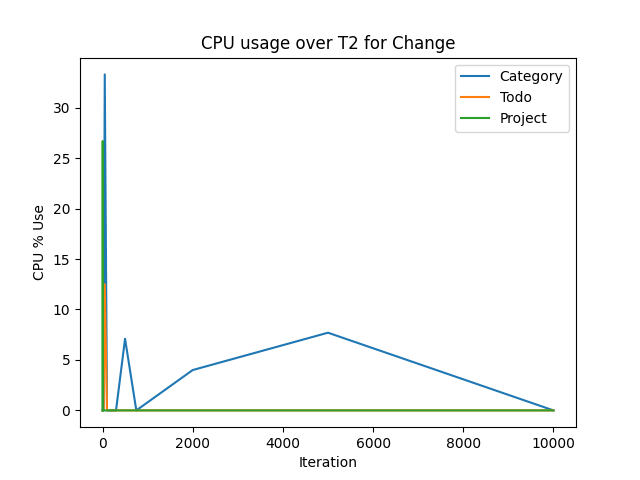
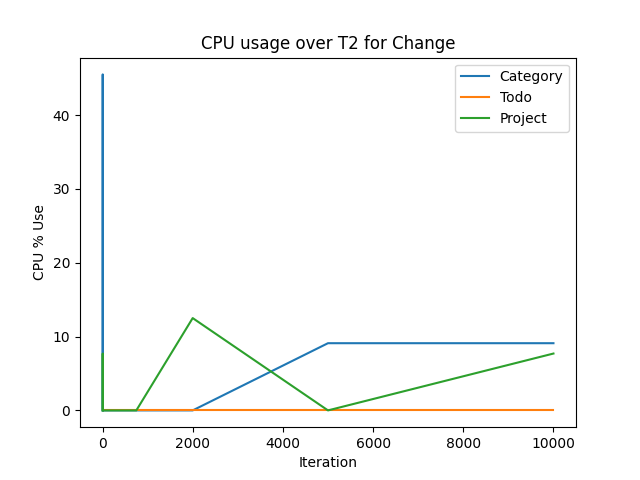
using time_ns instead

diff --git a/C/tests/todo/test_add_todo.py b/C/tests/todo/test_add_todo.py
@@ -2,7 +2,7 @@ import csv
 import json
 import os
 
-from time import time, sleep
+from time import time_ns, sleep
 
 from ..headers import send_json_recv_json_headers, recv_json_headers
 from ..set_up import *
@@ -42,15 +42,14 @@ def test_add_todo():
 
     for i, p in zip(ITERATIONS, PORTS[PORT_IDX]):
         print(i)
-        t1_start = time()
+        t1_start = time_ns()
 
         proc = start_server(p)
         for j in range(i):  # add x amount of todos
-            print(j)
             if i - 1 == j:
-                t2_start = time()
+                t2_start = time_ns()
                 create_to_do(str(i), p)
-                t2_end = time()
+                t2_end = time_ns()
                 assert_todos(str(i), p)
                 t2_writer.writerow([j + 1, t2_start, t2_end, t2_end - t2_start])
             else:
@@ -59,7 +58,7 @@ def test_add_todo():
             sleep(PAUSE)
         shutdown_server(proc, p)
 
-        t1_end = time()
+        t1_end = time_ns()
         t1_writer.writerow([i, t1_start, t1_end, t1_end - t1_start])
         # sleep(30)
 

diff --git a/C/tests/context/test_add_category.py b/C/tests/context/test_add_category.py
@@ -1,7 +1,7 @@
 import csv
 import json
 import os
-from time import time, sleep
+from time import time_ns, sleep
 
 import requests
 
@@ -43,14 +43,14 @@ def test_add_category():
 
     for i, p in zip(ITERATIONS, PORTS[PORT_IDX]):
         print(i)
-        t1_start = time()
+        t1_start = time_ns()
 
         proc = start_server(p)
         for j in range(i):  # add x amount of categories
             if j == i - 1:
-                t2_start = time()
+                t2_start = time_ns()
                 create_category(str(i), p)
-                t2_end = time()
+                t2_end = time_ns()
                 assert_categories(str(i), p)
                 t2_writer.writerow([j + 1, t2_start, t2_end, t2_end - t2_start])
             else:
@@ -59,7 +59,7 @@ def test_add_category():
             sleep(PAUSE)
         shutdown_server(proc, p)
 
-        t1_end = time()
+        t1_end = time_ns()
         t1_writer.writerow([i, t1_start, t1_end, t1_end - t1_start])
         # sleep(30)
 

diff --git a/C/tests/project/test_add_project.py b/C/tests/project/test_add_project.py
@@ -1,7 +1,7 @@
 import csv
 import json
 import os
-from time import time, sleep
+from time import time_ns, sleep
 
 import requests
 
@@ -44,14 +44,14 @@ def test_add_project():
 
     for i, p in zip(ITERATIONS, PORTS[PORT_IDX]):
         print(i)
-        t1_start = time()
+        t1_start = time_ns()
 
         proc = start_server(p)
         for j in range(i):  # add x amount of projects
             if i - 1 == j:
-                t2_start = time()
+                t2_start = time_ns()
                 create_project(str(i), p)
-                t2_end = time()
+                t2_end = time_ns()
                 assert_projects(str(i), p)
                 t2_writer.writerow([j + 1, t2_start, t2_end, t2_end - t2_start])
             else:
@@ -60,7 +60,7 @@ def test_add_project():
             sleep(PAUSE)
         shutdown_server(proc, p)
 
-        t1_end = time()
+        t1_end = time_ns()
         t1_writer.writerow([i, t1_start, t1_end, t1_end - t1_start])
 
     t1_file.close()

diff --git a/C/tests/context/test_delete_category.py b/C/tests/context/test_delete_category.py
@@ -1,7 +1,7 @@
 import csv
 import json
 import os
-from time import time, sleep
+from time import time_ns, sleep
 
 import requests
 
@@ -38,20 +38,20 @@ def test_delete_category():
 
     for i, p in zip(ITERATIONS, PORTS[PORT_IDX]):
         print(i)
-        t1_start = time()
+        t1_start = time_ns()
         proc = start_server(p)
         for j in range(1, i + 1):
             last = create_category(str(j), p)
             sleep(PAUSE)
         # only delete the last one
-        t2_start = time()
+        t2_start = time_ns()
         delete_category(last, p)
-        t2_end = time()
+        t2_end = time_ns()
 
         assert_deleted_category(last, p)
         shutdown_server(proc, p)
 
-        t1_end = time()
+        t1_end = time_ns()
         t1_writer.writerow([i, t1_start, t1_end, t1_end - t1_start])
         t2_writer.writerow([i, t2_start, t2_end, t2_end - t2_start])
         # sleep(30)

diff --git a/C/tests/project/test_change_project.py b/C/tests/project/test_change_project.py
@@ -1,7 +1,7 @@
 import csv
 import json
 import os
-from time import time, sleep
+from time import time_ns, sleep
 
 import requests
 
@@ -42,21 +42,21 @@ def test_change_project():
 
     for i, p in zip(ITERATIONS, PORTS[PORT_IDX]):
         print(i)
-        t1_start = time()
+        t1_start = time_ns()
 
         proc = start_server(p)
         for j in range(i + 1):  # add x amount of projects
             last = create_project(str(i), p)
             sleep(PAUSE)
 
-        t2_start = time()
+        t2_start = time_ns()
         change_project(last, p)
-        t2_end = time()
+        t2_end = time_ns()
 
         assert_changed_project(last, p)
         shutdown_server(proc, p)
 
-        t1_end = time()
+        t1_end = time_ns()
         t1_writer.writerow([i, t1_start, t1_end, t1_end - t1_start])
         t2_writer.writerow([i, t2_start, t2_end, t2_end - t2_start])
         # sleep(30)

diff --git a/C/tests/project/test_delete_project.py b/C/tests/project/test_delete_project.py
@@ -1,7 +1,7 @@
 import csv
 import json
 import os
-from time import time, sleep
+from time import time_ns, sleep
 
 import requests
 
@@ -40,20 +40,20 @@ def test_delete_project():
 
     for i, p in zip(ITERATIONS, PORTS[PORT_IDX]):
         print(i)
-        t1_start = time()
+        t1_start = time_ns()
         proc = start_server(p)
         for j in range(1, i + 1):
             last = create_project(str(j), p)
             sleep(PAUSE)
         # only delete the last one
-        t2_start = time()
+        t2_start = time_ns()
         delete_project(last, p)
-        t2_end = time()
+        t2_end = time_ns()
 
         assert_deleted_project(last, p)
         shutdown_server(proc, p)
 
-        t1_end = time()
+        t1_end = time_ns()
         t1_writer.writerow([i, t1_start, t1_end, t1_end - t1_start])
         t2_writer.writerow([i, t2_start, t2_end, t2_end - t2_start])
 

diff --git a/C/tests/context/test_change_category.py b/C/tests/context/test_change_category.py
@@ -1,7 +1,7 @@
 import csv
 import json
 import os
-from time import time, sleep
+from time import time_ns, sleep
 
 import requests
 
@@ -41,21 +41,21 @@ def test_change_category():
 
     for i, p in zip(ITERATIONS, PORTS[PORT_IDX]):
         print(i)
-        t1_start = time()
+        t1_start =time_ns()
 
         proc = start_server(p)
         for j in range(i + 1):  # add x amount of categories
             last = create_category(str(i), p)
             sleep(PAUSE)
 
-        t2_start = time()
+        t2_start = time_ns()
         change_category(last, p)
-        t2_end = time()
+        t2_end = time_ns()
 
         assert_changed_category(last, p)
         shutdown_server(proc, p)
 
-        t1_end = time()
+        t1_end = time_ns()
         t1_writer.writerow([i, t1_start, t1_end, t1_end - t1_start])
         t2_writer.writerow([i, t2_start, t2_end, t2_end - t2_start])
 

diff --git a/C/tests/todo/test_change_todo.py b/C/tests/todo/test_change_todo.py
@@ -1,7 +1,7 @@
 import csv
 import json
 import os
-from time import time, sleep
+from time import time_ns, sleep
 
 import requests
 
@@ -40,21 +40,21 @@ def test_change_todo():
 
     for i, p in zip(ITERATIONS, PORTS[PORT_IDX]):
         print(i)
-        t1_start = time()
+        t1_start = time_ns()
 
         proc = start_server(p)
         for j in range(i + 1):  # add x amount of todos
             last = create_to_do(str(i), p)
             sleep(PAUSE)
 
-        t2_start = time()
+        t2_start = time_ns()
         change_todo(last, p)
-        t2_end = time()
+        t2_end = time_ns()
 
         assert_changed_todo(last, p)
         shutdown_server(proc, p)
 
-        t1_end = time()
+        t1_end = time_ns()
         t1_writer.writerow([i, t1_start, t1_end, t1_end - t1_start])
         t2_writer.writerow([i, t2_start, t2_end, t2_end - t2_start])
         # sleep(30)

diff --git a/C/tests/todo/test_delete_todo.py b/C/tests/todo/test_delete_todo.py
@@ -1,6 +1,6 @@
 import csv
 import os
-from time import time, sleep
+from time import time_ns, sleep
 
 import requests
 
@@ -38,20 +38,20 @@ def test_delete_todo():
 
     for i, p in zip(ITERATIONS, PORTS[PORT_IDX]):
         print(i)
-        t1_start = time()
+        t1_start = time_ns()
         proc = start_server(p)
         for j in range(1, i + 1):
             last = create_to_do(str(j), p)
             sleep(PAUSE)
         # only delete the last one
-        t2_start = time()
+        t2_start = time_ns()
         delete_todo(last, p)
-        t2_end = time()
+        t2_end = time_ns()
 
         assert_deleted_todo(last, p)
         shutdown_server(proc, p)
 
-        t1_end = time()
+        t1_end =time_ns()
         t1_writer.writerow([i, t1_start, t1_end, t1_end - t1_start])
         t2_writer.writerow([i, t2_start, t2_end, t2_end - t2_start])
         # sleep(30)

diff --git a/C/run.py b/C/run.py
@@ -3,7 +3,7 @@ import os
 from threading import Thread, currentThread
 
 import psutil
-from time import sleep, time
+from time import sleep, time_ns
 
 from tests.context.test_add_category import test_add_category
 from tests.context.test_change_category import test_change_category
@@ -22,10 +22,10 @@ def logger():
     log_writer.writerow(["time", "cpu_usage(%)", "used_memory", "free_memory"])
 
     while getattr(currentThread(), "run", True):
-        now = time()
+        now = time_ns()
         cpu_usage = psutil.cpu_percent()
         log_writer.writerow([now, cpu_usage,  psutil.virtual_memory().used, psutil.virtual_memory().free])
-        sleep(0.02)
+        sleep(0.0005)
     log.close()
 
 

diff --git a/C/tests/set_up.py b/C/tests/set_up.py
@@ -10,7 +10,7 @@ PORTS = [[c + row * len(ITERATIONS) + BASE_PORT for c in range(len(ITERATIONS))]
 
 
 def start_server(port):
-    print("running on port", port)
+    # print("running on port", port)
     process = subprocess.Popen(["java", "-jar", "runTodoManagerRestAPI-1.5.5.jar", "-port={}".format(port)], shell=True,
                                stdout=subprocess.DEVNULL, stderr=subprocess.STDOUT)
 
